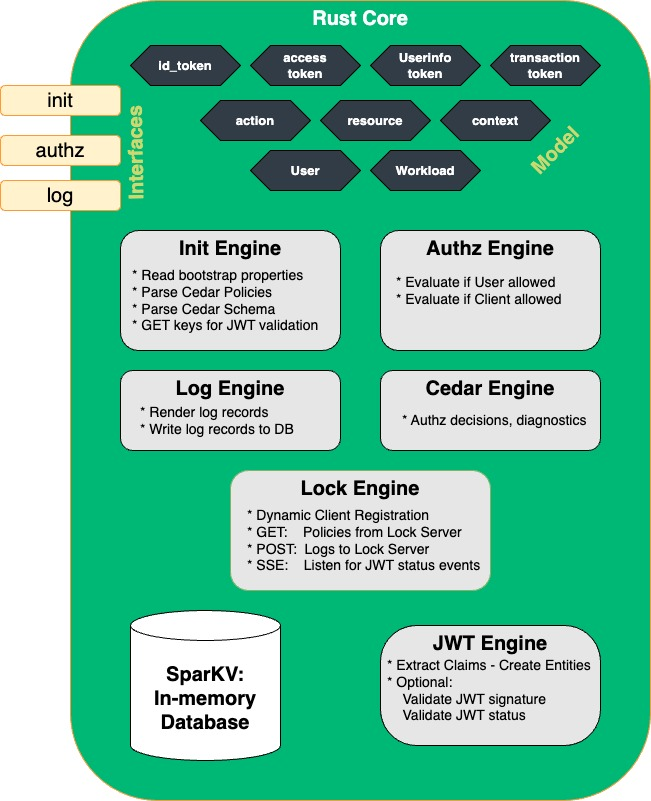
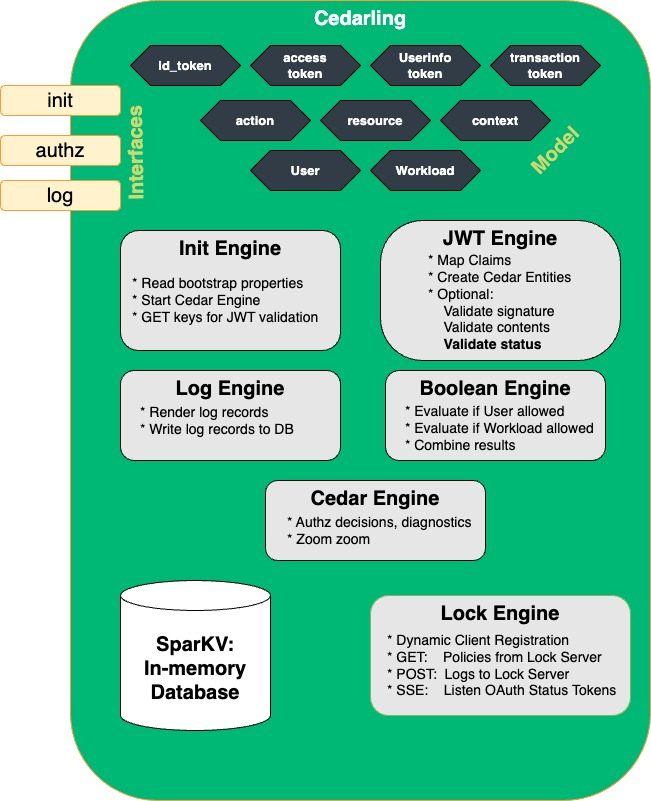
Updated Cedarling Overview page

Changed region(s): [[0.1843, 0.2497, 0.9831, 0.9675], [0.2151, 0.3121, 0.4916, 0.437], [0.4608, 0.0, 0.6452, 0.0312]]

diff --git a/docs/cedarling/cedarling-overview.md b/docs/cedarling/cedarling-overview.md
@@ -9,130 +9,146 @@ tags:
 
 # Cedarling Overview
 
-## What is Cedar
-
-[Cedar](https://www.cedarpolicy.com/en) is a policy syntax invented by Amazon and used by their 
-[Verified Permission](https://aws.amazon.com/verified-permissions/) service. Cedar policies
-enable developers to implement fine-grain access control and externalize policies. To learn more
-about why the design of Cedar is **intuitive**, **fast** and **safe**, read this 
-[article](https://aws.amazon.com/blogs/security/how-we-designed-cedar-to-be-intuitive-to-use-fast-and-safe/) 
-or watch this [video](https://www.youtube.com/watch?v=k6pPcnLuOXY&t=1779s)
-
-Cedar uses the **PARC** syntax: 
-
-* **P**rincipal
-* **A**ction
-* **R**esource
-* **C**ontext 
-
-For example, you may have a policy that says *Admins* can *write* to the */config* folder. The *Admin* role 
-is the Principal, *write* is the Action, and the */config* folder is the Resource. The Context is used to 
-specify information about the enivironment, like the time of day or network address.
-
-![](../assets/lock-cedarling-diagram-3.jpg)
-
-Fine grain access control makes sense in both the frontend and backend. In the frontend, mastery of 
-authz can help developers build better UX. For example, why display form fields a user is not 
-authorized to see? In the backend, fine grain policies are necessary for a zero trust architecture.
-
-## What is the Cedarling
+Modern applications require fine-grained access control, but traditional approaches relying on 
+centralized authorization services introduce latency, availability concerns, and operational 
+complexity. The Cedarling provides a fast, embeddable, and self-contained solution for policy-based 
+authorization, designed for both client-side and server-side enforcement. This makes it 
+particularly well-suited for latency-sensitive environments like mobile apps, API gateways, and 
+embedded devices. Cedarling is designed for maximum deployment flexibility:
+* Embedded in browsers or mobile apps for client-side authorization.
+* Integrated into backend services using Java or Python SDKs.
+* Deployed as a sidecar or serverless function in cloud-native environments.
+* Used within databases and API gateways to enforce fine-grained authorization at multiple layers.
 
 ![](../assets/lock-cedarling-diagram-1.jpg)
 
-Architecturally, the Cedarling is an embeddable stateful Policy Decision Point, or "PDP". It is 
-stateful because it implements an in-memory cache which makes it possible to batch logs and 
-implement other performance optimizations. The Cedarling is written in Rust with bindings 
-to WASM, iOS, Android, and Python--this makes it possible for web, mobile, and cloud developers
-to incorporate the Cedarling into their applications.
+The Cedarling is an embeddable Policy Decision Point (PDP), which includes an in-memory cache 
+for performance optimization, enabling low-latency access control and efficient logging. The 
+Cedarling is built on the Rust Cedar engine, but unlike the standalone Cedar engine, it is a 
+full-featured PDP that includes logging, JWT validation, and claims mapping, making it 
+more adaptable for real-world applications. It also has optional features to connect 
+to enterprise plumbing.
 
-The Cedarling is used for both frontend and backend security. Because the frontend is more 
-constrained with regard to memory and compute, this requirement was critical to the design.
-For example, in the backend, a PDP could run in a Linux container. But in the frontend, the 
-Cedarling must run in a browser, using the browser WASM engine. 
+If you never heard of Cedar, you might want to start [here](./cedar-intro.md) with 
+a quick introduction and some links for further learning. These Cedarling docs assume 
+you have a basic understanding of Cedar policy syntax and language features. 
 
-How does the Cedarling get the data to calculate a decision? The Principal data is contained in 
-the JWTs--a person, a workload, or both. The Action, Resource and Context are sent by the 
-application as arguments in the authz request. The Cedarling is fast because it has all the data it 
-needs to make a local decision. No cloud round-trips are needed to return an authz decision--a 
-cloud roundtrip may kill the performance of a frontend application. The Cedarling can execute many 
-requests in less then 1ms--this is critical for UX fine grain authorization.
+The Cedarling is written in Rust with bindings to WASM, iOS, Android, Python and Java. 
+This means that web, mobile, and cloud developers can use the Cedarling  to load a 
+"policy store"--a set of policies, a schema, and a list of trusted token issuers. 
+Policy stores are application specific, meaning each store 
+does **not** contain all policies and schema for all applications in your domain. Each policy 
+store has the unique policies and schema needed only for one specific application.
 
-Below is a conceptual diagram showing how you can archiect the Cedarling for frontend and backend
-security. 
+The Cedarling is useful for both frontend and backend security. At less then 2M in size, 
+it's small enough to load into your browser or mobile application. Backend
+applications can use the sidecar via a REST API, deploy the Cedarling in the cloud as a 
+serverless component (e.g. cloud WASM), or integrate directly via the Java or Python SDKs. 
 
-![](../assets/lock-cedarling-mobile-generic.jpg)
+The Cedarling is optimized for speed, typically returning authorization decisions in sub-millisecond time. By 
+keeping all necessary data locally available, it avoids costly cloud round-trips, ensuring predictable 
+performance.
 
-1. The Cedarling is used to determine if the Mobile Application should be allowed to register. 
-For example, perhaps the IDP wants to execute a policy that restricts registration to mobile
-applications that present a Google Integrity API attestation to indicate the checksum of the binary 
-has not changed, and that the phone is not rooted. 
-1. The Cedarling is used to authenticate the person using the mobile application, i.e. the "User". 
-For example, perhaps the IDP wants to execute a policy that says that 2FA is required from a non
-trusted network. 
-1. The Cedarling is used to determine which scopes to add to the OAuth access token. For example, 
-perhaps if the mobile application presents a software statement assertion JWT (i.e. and "SSA")
-issued by the IDP, the application may request the `financial` scope. 
-1. Once JWT tokens are issued by the IDP, the frontend can use these tokens to evaluate local policies. 
-For example, perhaps the mobile application only allows access to certain features if the Userinfo JWT
-contains a role claim for a "Manager". 
-1. The mobile application may send an OAuth access token to call an API. This API Gateway may route this
-request to a backend service, but only after evaluating certain security policies. For example, perhaps
-the Action POST is only allowed on a Resource (e.g. "URI") when the access token JWT contains a certain 
-scope.
-1. Finally, the Backend API can use the Cedarling to perform its own fine grain authorization. For example, 
-perhaps the Backend only allows transaction greater than $10,000 if the access token contains scope value
-`high-net-worth`. 
+The Cedarling ensures consistent security policies across different environments while minimizing 
+attack surfaces by keeping authorization decisions local. Its design aligns with Zero Trust 
+principles, and its ability to validate JWTs and logs enhances auditability for compliance-focused 
+applications.
 
-This is just a hypothetical example, but hopefully you can see how the Cedarling is used to achieve 
-multilayer security. Each Cedarling has it's own specific policy store. The API Gateway Cedarling instance
-does not need to know the policies or schema for the mobile application. By layering security, you can 
-implement a zero trust architecture.
+## Token Based Access Control (TBAC)
+
+Cedarling evaluates authorization requests based on Token-Based Access Control (TBAC), 
+answering the question: _"Given this bundle of tokens, is this action on this resource allowed 
+in this context?"_ TBAC helps developers implement security based on JWTs from trusted issuers 
+like identity providers, hardware platforms, and federations. 
+
+Who is the principal in a TBAC request? A TBAC authorization request may pertain to multiple 
+principals, derived from the JWT tokens. For example, let's say a person uses a mobile application 
+to request data from a service provider. In this case, there are two principals: the person and 
+the mobile application--both of which have unique identities. A business may prevent access to 
+content from a mobile application, although allow it for the same User from the company's website.
+
+Don't forget about the "Workload" identity--the software acting on behalf of the "User". Humans don't 
+speak tcp/ip! People need digital intermediaries, which need increasing amounts of agency.
 
 ### Cedarling Interfaces
 
-The developer using the Cedarling to build an application uses three easy interfaces: ("`init`"), 
-authorization ("`authz`") and logging ("`log`"). 
+Developers interact with Cedarling using three core interfaces:
+
+* **Initialization** (`init`) – Loads the policy store and retrieves configuration settings.
+* **Authorization** (`authz`) – Evaluates policies and JWTs to determine access.
+* **Logging** (`log`) – Retrieves decision and system logs for auditing. 
 
 Developers call the `init` interface on startup of their application, causing the Cedarling to read
 its [bootstrap properties](./cedarling-properties) and load its [policy store](./cedarling-policy-store).
-If configured, the Cedarling will also retrieve the most  recent IDP public keys and request JWT 
-status updates.
+If configured for JWT validation, the Cedarling will fetch the most recent IDP public keys and status 
+list JWT.
 
-The `authz` interface provides the main functionality of the Cedarling: to authorize a PARC 
-request from the application by mapping the data sent in the request, and evaluating it with 
-the embedded [Rust Cedar Engine](https://github.com/cedar-policy/cedar). The authz interface 
-answers the question: "Is this action, on this resource, given this context, allowed with 
-these JWTs?". The Cedarling returns the decion--*allow* or *deny*. If denied, the Cedarling
-returns "diagnostics"--additional context if the decision is denied.  During `authz`, the 
-Cedarling can perform two more important jobs: (1) validate JWT tokens; (2) log the resulting
-decision. 
+The `authz` interface provides the main functionality of the Cedarling: to authorize a request from the 
+application by mapping the data and JWTs sent in the request, and evaluating it against the policies using 
+the [Rust Cedar Engine](https://github.com/cedar-policy/cedar). 
+
+The authz interface answers the question: "Is this action, on this resource, given this context, 
+allowed with these JWTs?". The Cedarling returns the decision--*allow* or *deny*. If denied, the 
+Cedarling returns "diagnostics"--additional context to clarify why the decision was not allowed. 
+During `authz`, the Cedarling can perform two more important jobs: (1) validate JWT tokens; (2) log 
+the resulting decision. 
 
 The `log` interface enables developers to retrieve decision and system logs from the Cedarling's 
 in-memory cache. See the Cedarling [log](./cedarling-logs) documentation for more information. 
 
 ### Cedarling Components
 
-As a developer, you don't really need to understand how the Cedarling is constructed. But this 
-section is meant to give you an idea to help you get a better understand of what it's actually
-doing. The following diagram is a very high level picture:
+The following diagram is a high level picture of the Cedarling components:
 
 ![](../assets/lock-cedarling-rust-core-components.jpg)
 
-* **Cedar Engine** is the latest code released from the open source Rust Cedar project. Thanks
-Amazon for supporting this fabulous technology! 
-* **SparKV** is an in-memory key-value store that support automatic expiration of data. For example,
-we don't want to store logs for more then a few minutes. The Cedarling is a *stateful* PDP, but 
-of course it doesn't write anything to disk. The state is stored entirely in Memory, and SparKV
-provides an easy way to do this. 
+* **Cedar Engine** a recent release of the Rust Cedar Engine thanks to Amazon.
+* **SparKV** is an in-memory key-value store that support automatic expiration of data.
 * **Init, Authz, and Log Engines** perform actions similar to those described in the interfaces 
 above.
-* **JWT Engine** is used to validate JWT signatures and to check the status of a JWT token. 
-* **Lock Engine** is used for enterprise deployments, where the Cedarling is one of many instances,
-and it needs to pick up its Policy Store from a trusted source and send to store its logs centrally, 
-for example in a SIEM.
+* **JWT Engine** is used to validate JWT signatures, JWT content (i.e. `exp`) and to check if the JWT token is revoked (using the Status List JWT) 
+* **Lock Engine** is used for enterprise deployments to load the Policy Store from a trusted source and send to store logs for central storage. 
 
-So you can see that the Cedar Engine is central to the functionality of the Cedarling. However, the 
-other helper engines make it easier for developer to use Cedar for application security when they 
-are using JWT tokens as the source of Person and Workload identity.
+## Cedarling and Zero Trust
 
+Zero Trust is a modern security model that assumes **no implicit trust**—every request must be **explicitly authorized** based on policies, identity, and context. Cedarling enables **end-to-end Zero Trust enforcement** by embedding fine-grained authorization across the entire security stack, from **client devices** to **backend services and databases**.
 
+### End-to-End Authorization Enforcement
+Cedarling can be deployed **at every layer** to ensure that access decisions are consistently enforced. The diagram below illustrates how Cedarling operates in a hypothetical **mobile application architecture**:
+
+![](../assets/lock-cedarling-mobile-generic.jpg)
+
+1. **Identity Provider (IDP) Enforcement**  
+   - The IDP can use Cedarling to determine if a **mobile application** should be allowed to register.  
+   - Example: An IDP policy might restrict registration to applications that present a **valid Software Statement Assertion (SSA)** or **Google Play Integrity Attestation**.
+  
+2. **Client-Side Authorization in Mobile and Web Apps**  
+   - A **mobile application** can embed Cedarling to enforce **real-time access control** before exposing UI components or calling APIs.  
+   - Example: A finance app may check if a user's token has **elevated risk signals** (e.g., logging in from a new device) before enabling high-risk transactions.
+
+3. **API Gateway Enforcement**  
+   - API gateways can use Cedarling to **validate JWT claims and scope permissions** before forwarding requests to backend services.  
+   - Example: A gateway might block API requests missing a **valid "admin" scope** or **ensure an OAuth token has not expired**.
+
+4. **Backend Service Authorization**  
+   - The **backend server** can re-evaluate authorization decisions, ensuring **end-to-end security** rather than trusting the API gateway or mobile app.  
+   - Example: Even if a request passes through an API gateway, the backend can **recheck authorization policies** to prevent **privilege escalation**.
+
+5. **Database-Level Policy Enforcement**  
+   - Cedarling can be embedded within databases to **filter data at query time**, ensuring **only authorized records are returned**.  
+   - Example: A **multi-tenant SaaS** application may enforce **row-level security** so a user can only access their own organization's data.
+
+### Why Zero Trust Needs Cedarling
+Traditional access control models assume **network perimeters are secure**, leading to excessive trust in internal components. **Cedarling aligns with Zero Trust by:**
+- **Eliminating implicit trust**—each authorization decision is enforced based on real-time policies.
+- **Minimizing attack surfaces**—authorization happens **locally** within apps, APIs, and services, reducing the risk of **man-in-the-middle (MITM) attacks**.
+- **Ensuring consistent policies**—from **client devices** to **backend services and databases**, enforcing the **same security rules** everywhere.
+
+### Cedarling and Threat Detection
+Beyond enforcing policies, Cedarling plays a role in **intrusion detection** by **logging every decision**. These logs can be **analyzed in a SIEM (Security Information and Event Management) system** to detect:
+- **Unusual access patterns** (e.g., a user requesting sensitive data from an unrecognized location).
+- **Token misuse** (e.g., an expired JWT being replayed).
+- **Privilege escalation attempts** (e.g., a non-admin trying to access admin-only APIs).
+
+### Zero Trust Conclusion
+By embedding Cedarling across multiple layers of the application stack, organizations can **enforce Zero Trust security**, **reduce unauthorized access**, and **gain visibility into access patterns**. Whether it's **protecting frontend applications, securing API gateways, or enforcing access policies at the database level**, Cedarling ensures **every request is explicitly authorized**—everywhere.

diff --git a/docs/cedar-intro.md b/docs/cedar-intro.md
@@ -1,0 +1,34 @@
+---
+tags:
+  - administration
+  - lock
+  - authorization / authz
+  - Cedar
+  - Cedarling
+---
+
+# What is Cedar
+
+[Cedar](https://www.cedarpolicy.com/en) is a policy syntax invented by Amazon and used by their 
+[Verified Permission](https://aws.amazon.com/verified-permissions/) service. Cedar policies
+enable developers to implement fine-grain access control and externalize policies. To learn more
+about why the design of Cedar is **intuitive**, **fast** and **safe**, read this 
+[article](https://aws.amazon.com/blogs/security/how-we-designed-cedar-to-be-intuitive-to-use-fast-and-safe/) 
+or watch this [video](https://www.youtube.com/watch?v=k6pPcnLuOXY&t=1779s)
+
+Cedar uses the **PARC** syntax: 
+
+* **P**rincipal
+* **A**ction
+* **R**esource
+* **C**ontext 
+
+For example, you may have a policy that says *Admins* can *write* to the */config* folder. The *Admin* role 
+is the Principal, *write* is the Action, and the */config* folder is the Resource. The Context is used to 
+specify information about the enivironment, like the time of day or network address.
+
+![](../assets/lock-cedarling-diagram-3.jpg)
+
+Fine grain access control makes sense in both the frontend and backend. In the frontend, mastery of 
+authz can help developers build better UX. For example, why display form fields a user is not 
+authorized to see? In the backend, fine grain policies are necessary for a zero trust architecture.
